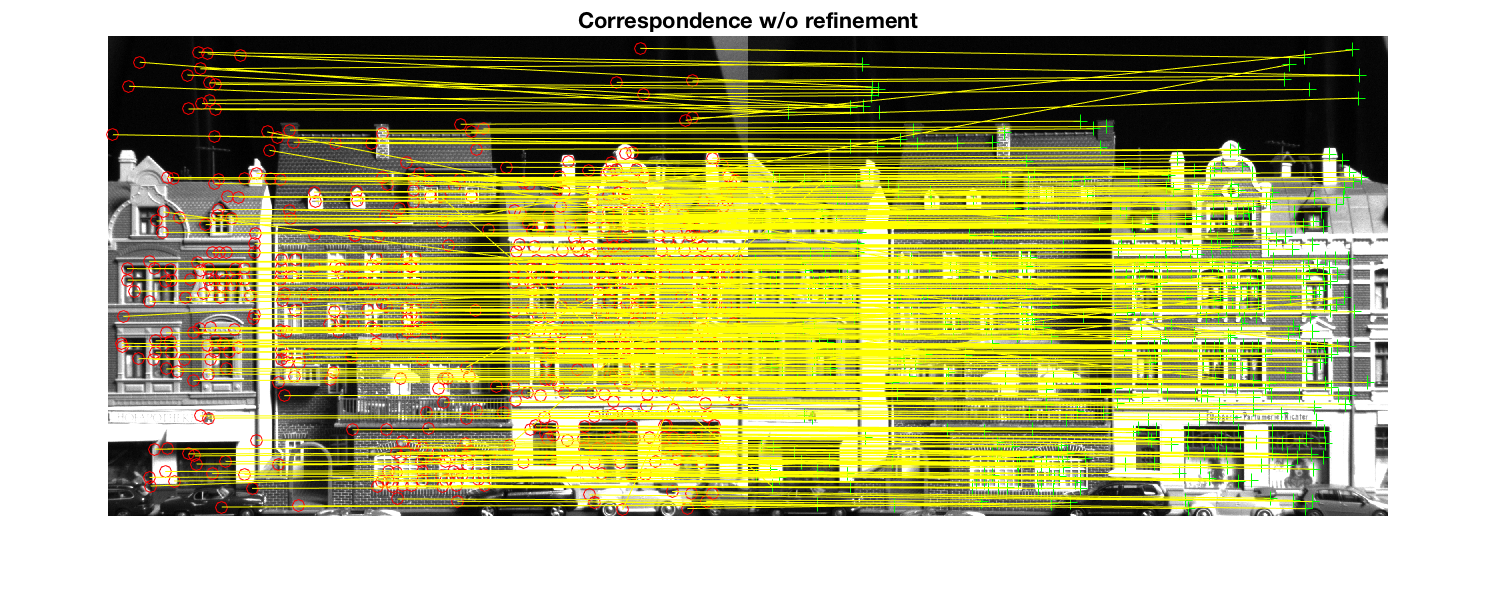
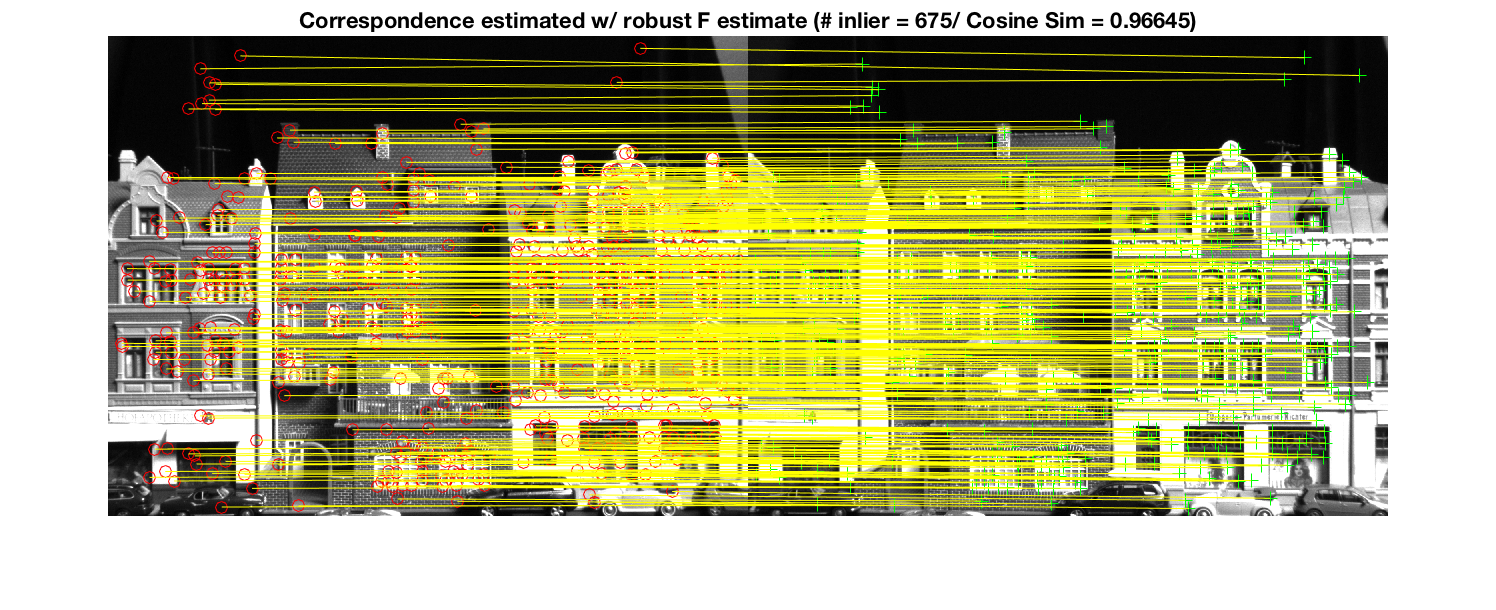
Modify robust F est

diff --git a/ex8-est-fund/estimateFund.m b/ex8-est-fund/estimateFund.m
@@ -37,20 +37,22 @@ end
 Fest = Fs{argm};
 Ftrue = getFtrue();
 a = Ftrue(:); b = Fest(:);
-a'*b/(norm(a)*norm(b))
+fprintf('Cosine similarity of true F and estimated F = %.5f\n', a'*b/(norm(a)*norm(b)));
 
 %% Refine F Estimate
 inlmatch = [];
 inrmatch = [];
 for cM=1:nMatch
-  if FSampDist(F,lmatch(:,cM),rmatch(:,cM))<3.84*3^2
+  if FSampDist(Fest,lmatch(:,cM),rmatch(:,cM))<3.84*3^2
     inlmatch = [inlmatch lmatch(:,cM)];
     inrmatch = [inrmatch rmatch(:,cM)];
   end
 end
+Fest = Fest_8point(inlmatch, inrmatch); b = Fest(:);
 figure;
 showMatchedFeatures(im1,im2,inlmatch', inrmatch', 'montage');
-title('Correspondence estimated w/ robust F estimate');
+title(sprintf('Correspondence estimated w/ robust F estimate (# inlier = %d/ Cosine Sim = %.5f)',...
+ length(inlmatch), a'*b/(norm(a)*norm(b))));
 
 function F = getFtrue()
   % Code from ex2
